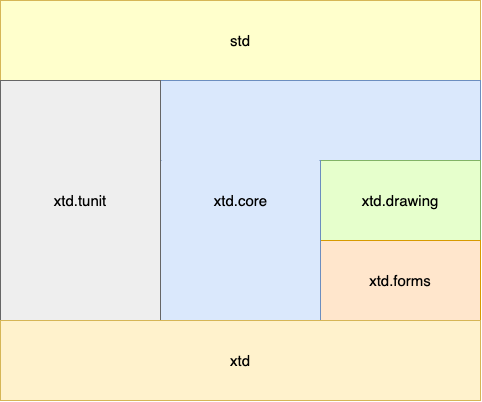
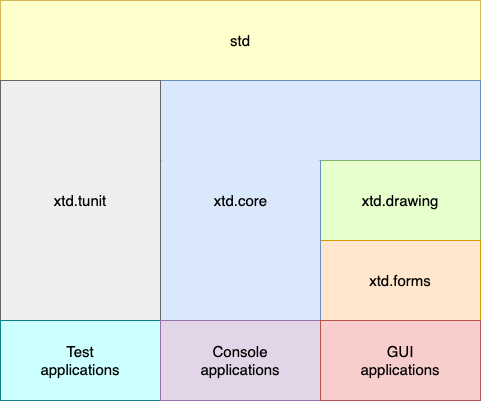
add docs

diff --git a/docs/home.md b/docs/home.md
@@ -13,7 +13,7 @@ Modern c++20 libraries to create console, gui and unit test applications.
 * and highly portable and available on many different platforms (Windows, macOS, Linux, iOS and android);
 
 
-[![architecture_logo](pictures/architecture.png)](hierarchy.md)
+[![architecture_logo](pictures/block_diagram.png)](hierarchy.md)
 
 # xtd is composed of several libraries
 

diff --git a/docs/architecture.md b/docs/architecture.md
@@ -2,7 +2,7 @@
 
 # The xtd libraries architecture
 
-[![libraries_img](pictures/architecture.png)](hierarchy.md)
+[![libraries_img](pictures/block_diagram.png)](hierarchy.md)
 
 
 # xtd is composed of several libraries
